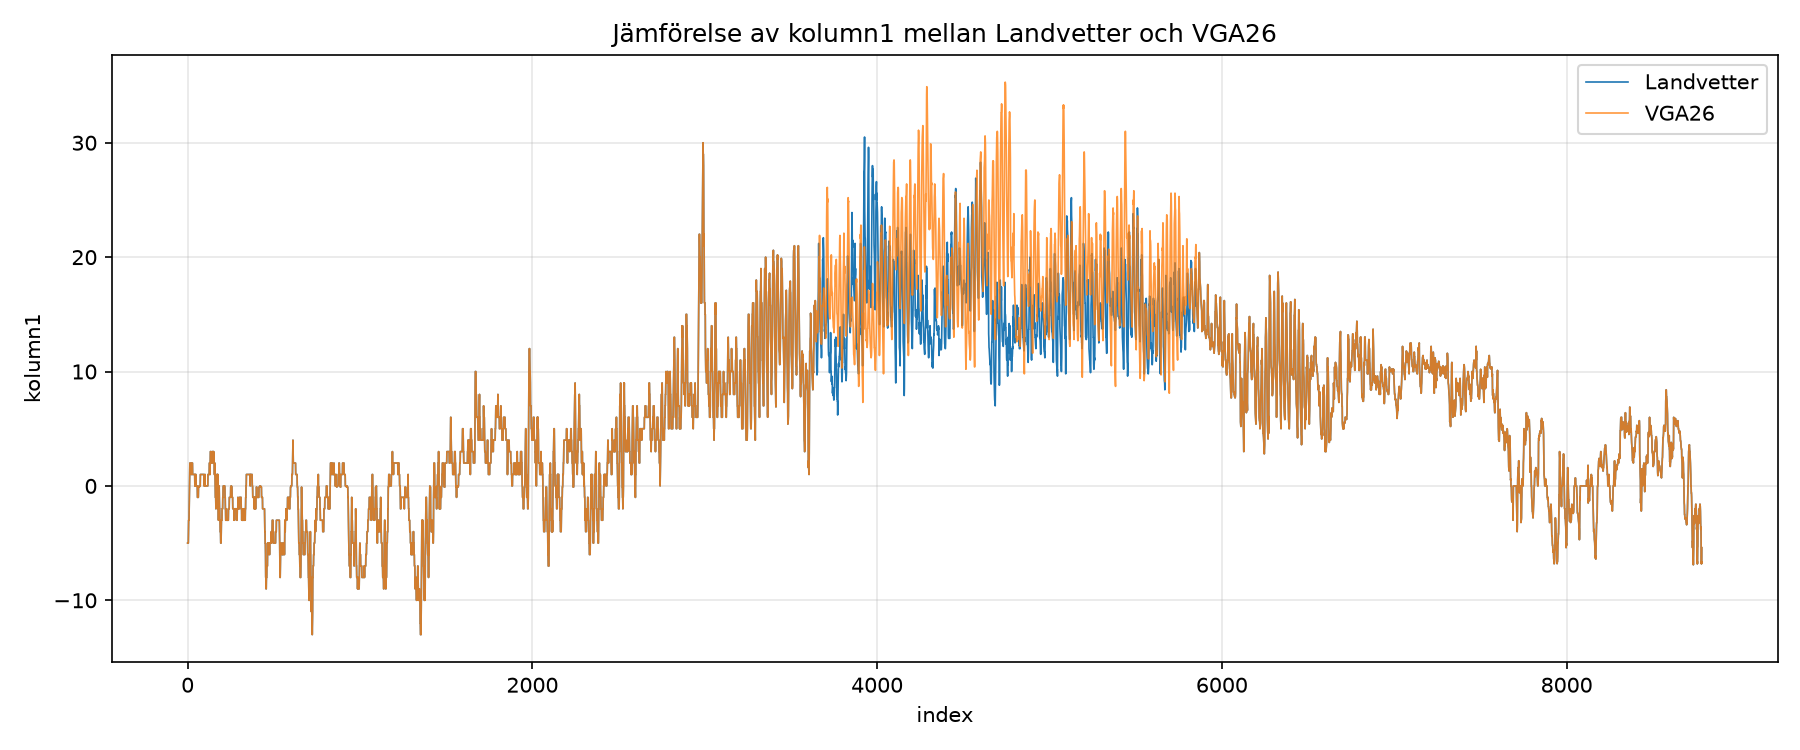
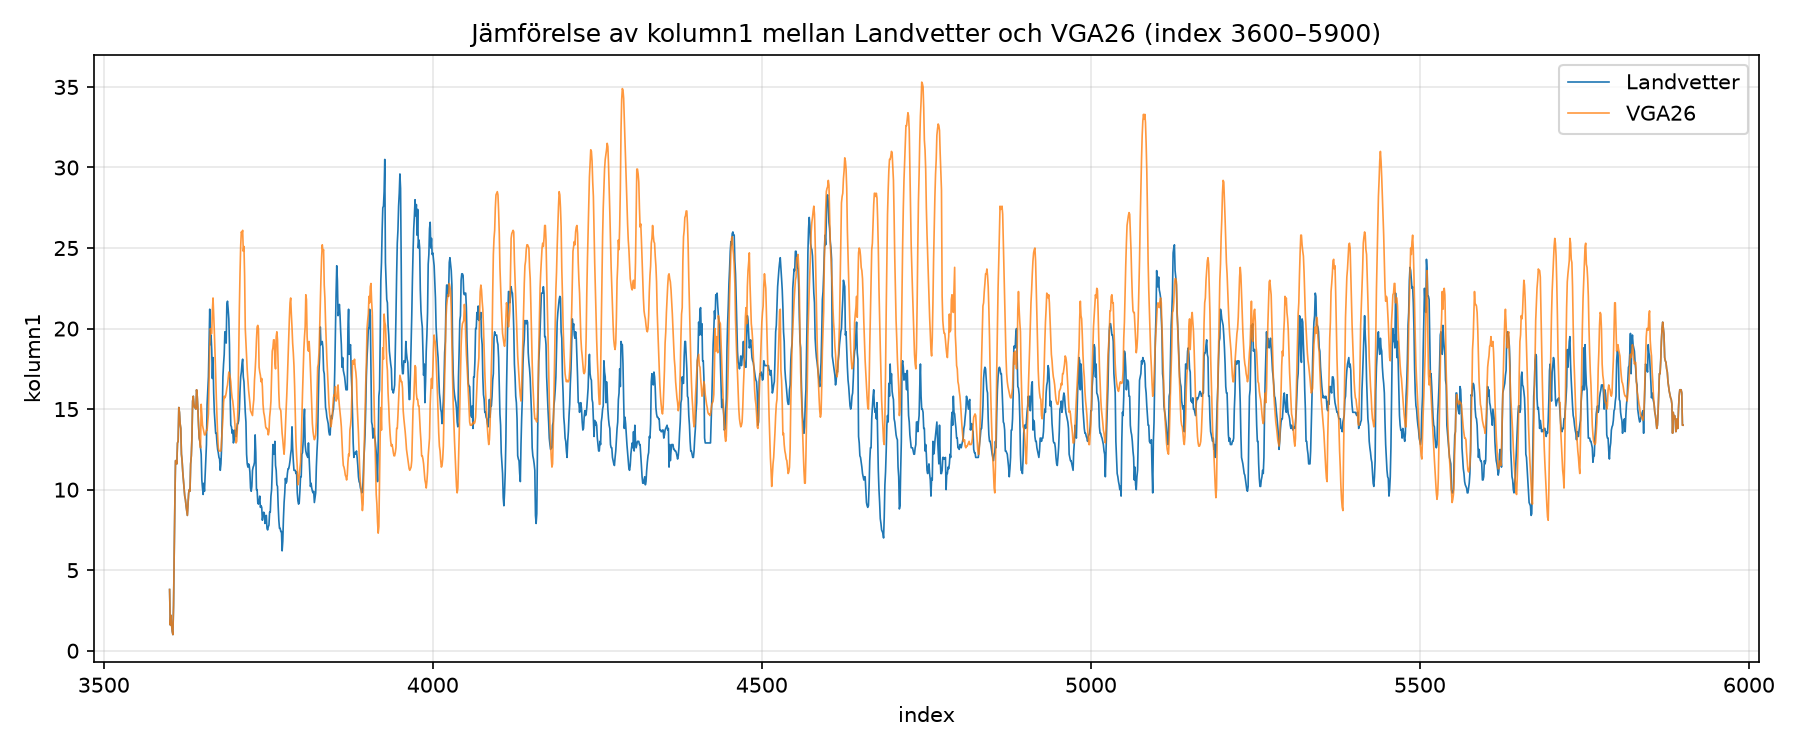
Begränsa diagrammen till index 3600–5900
Filtrerar data så diagrammen endast visar index 3600 till 5900
för tydligare jämförelse mellan Landvetter och VGA26.

diff --git a/skapa_diagram.py b/skapa_diagram.py
@@ -27,13 +27,20 @@ for name, path in FILES.items():
     data[name] = df
 
 value_columns = COLUMNS[1:]
+
+START = 3600
+END = 5900
+
+for name, df in data.items():
+    data[name] = df[(df["index"] >= START) & (df["index"] <= END)].reset_index(drop=True)
+
 x = data["Landvetter"]["index"]
 
 for col in value_columns:
     fig, ax = plt.subplots(figsize=(12, 5))
     ax.plot(x, data["Landvetter"][col], label="Landvetter", linewidth=0.8)
     ax.plot(x, data["VGA26"][col], label="VGA26", linewidth=0.8, alpha=0.8)
-    ax.set_title(f"Jämförelse av {col} mellan Landvetter och VGA26")
+    ax.set_title(f"Jämförelse av {col} mellan Landvetter och VGA26 (index {START}–{END})")
     ax.set_xlabel("index")
     ax.set_ylabel(col)
     ax.legend()
